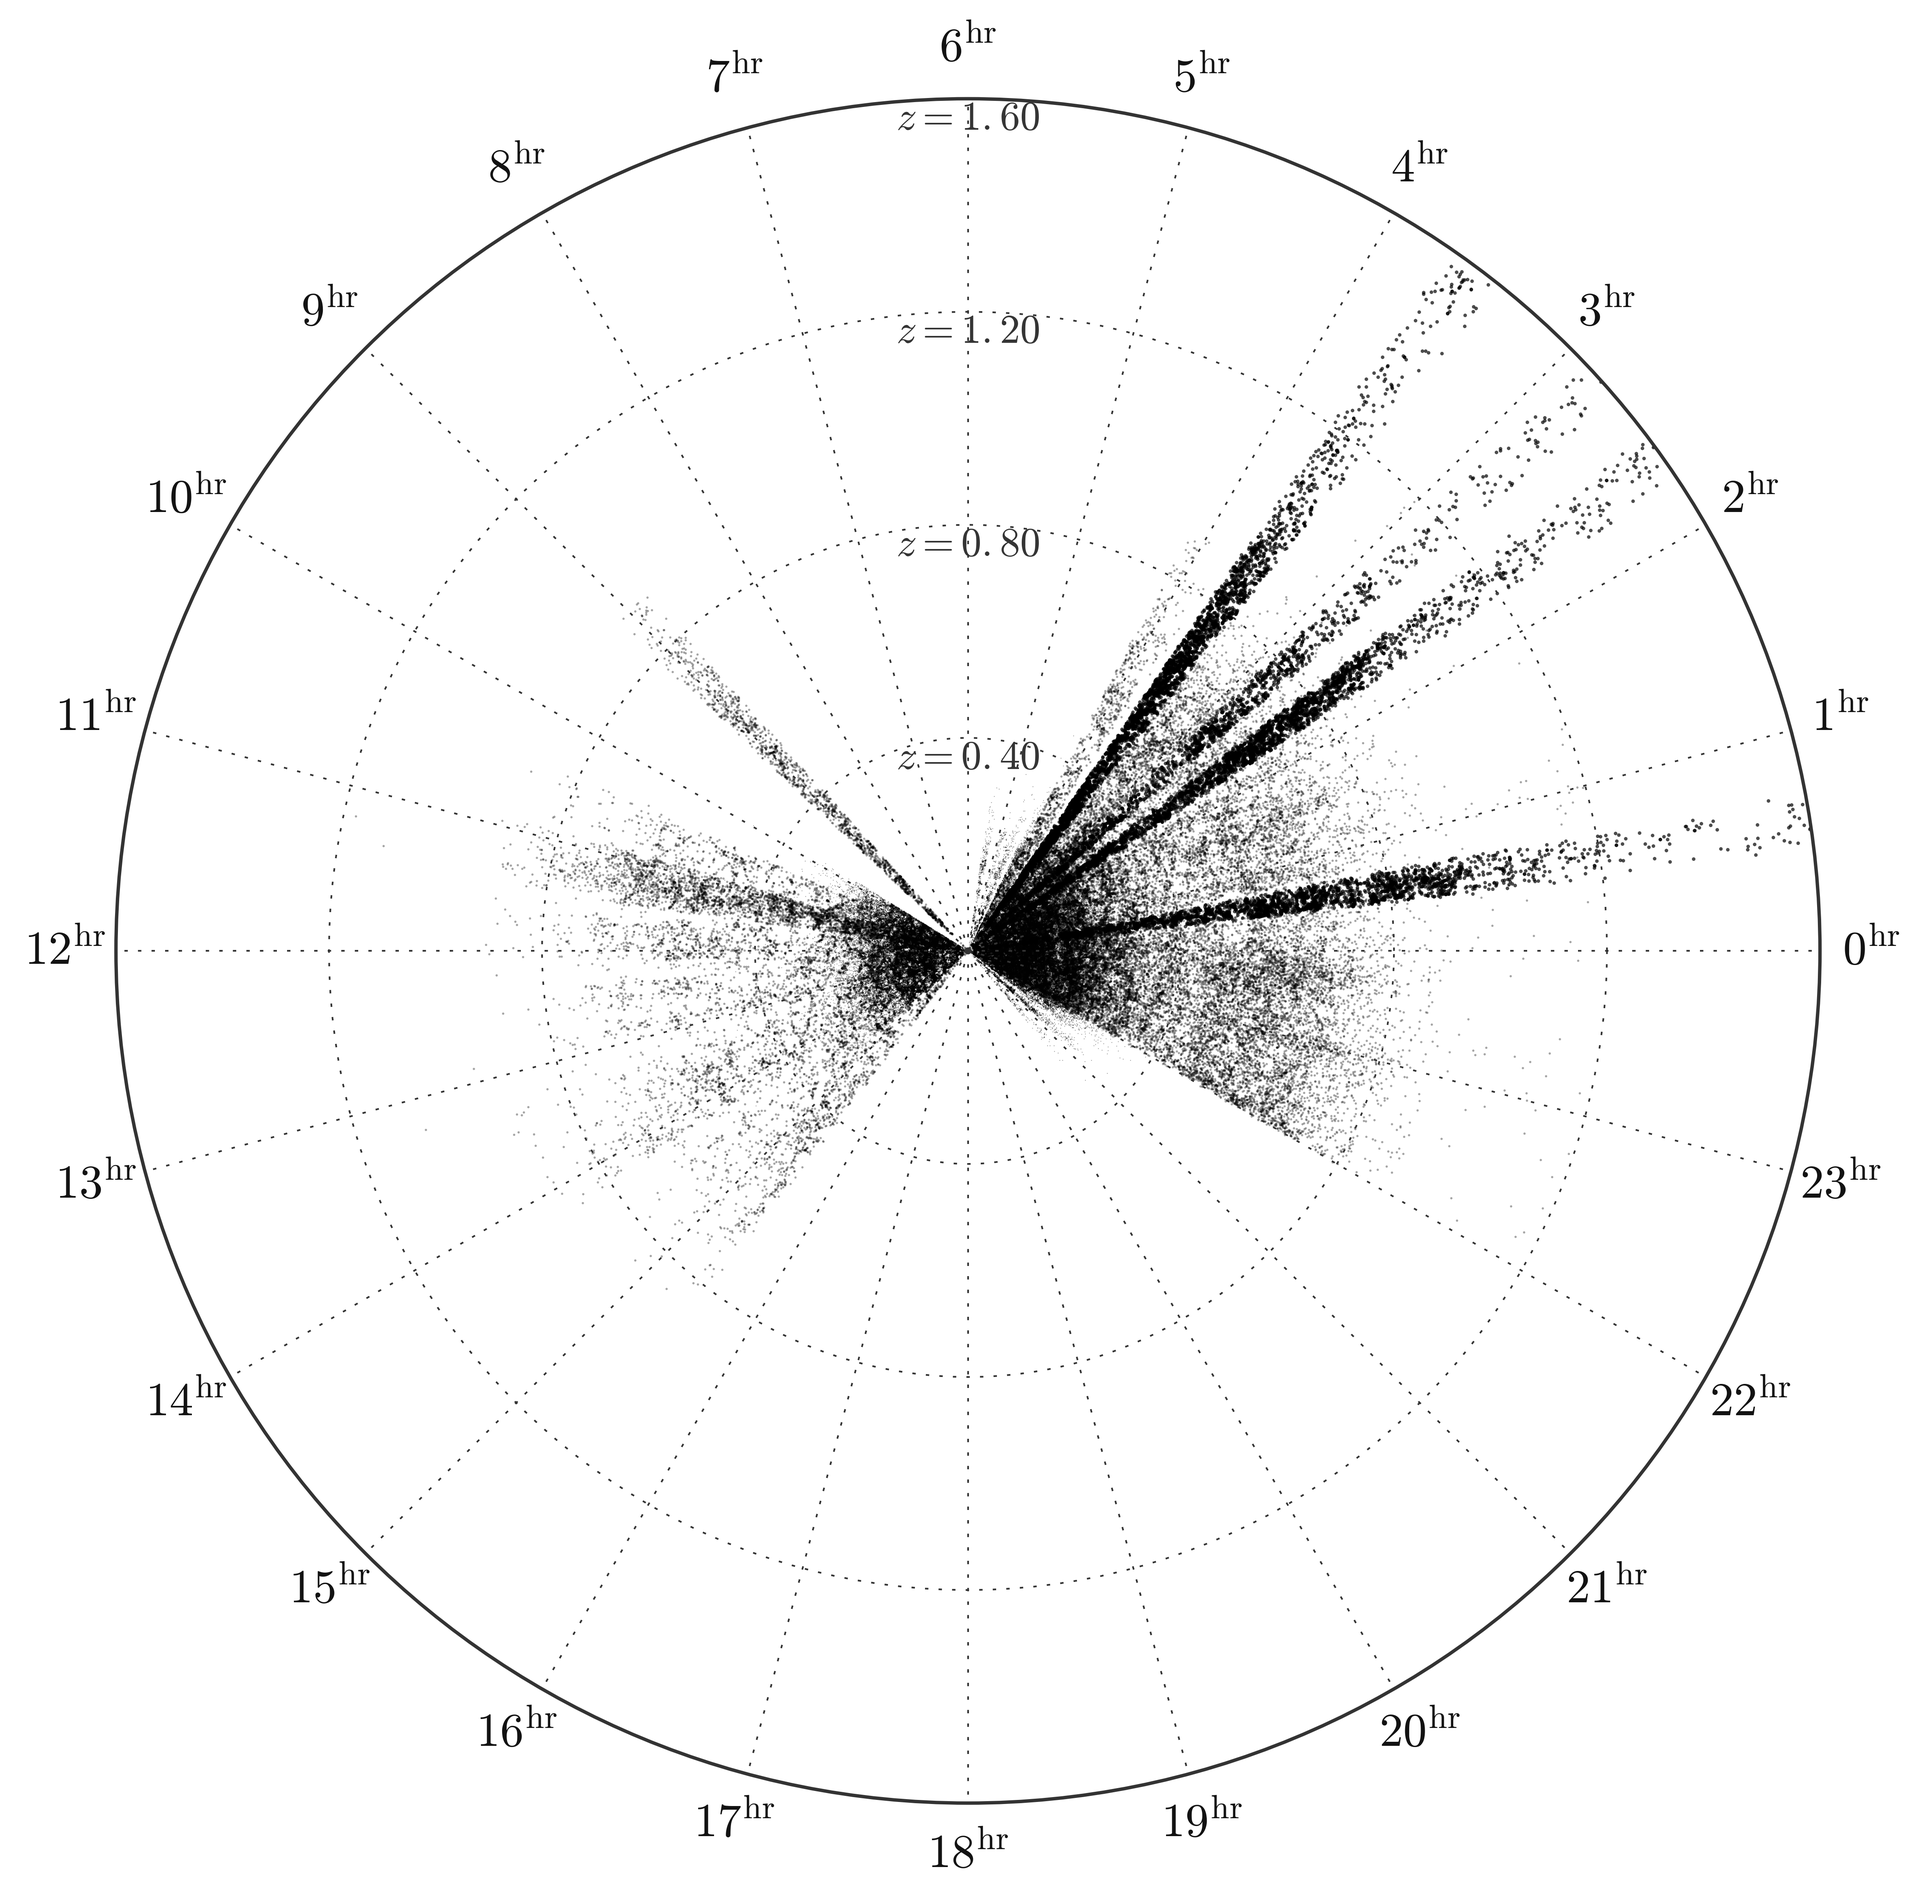
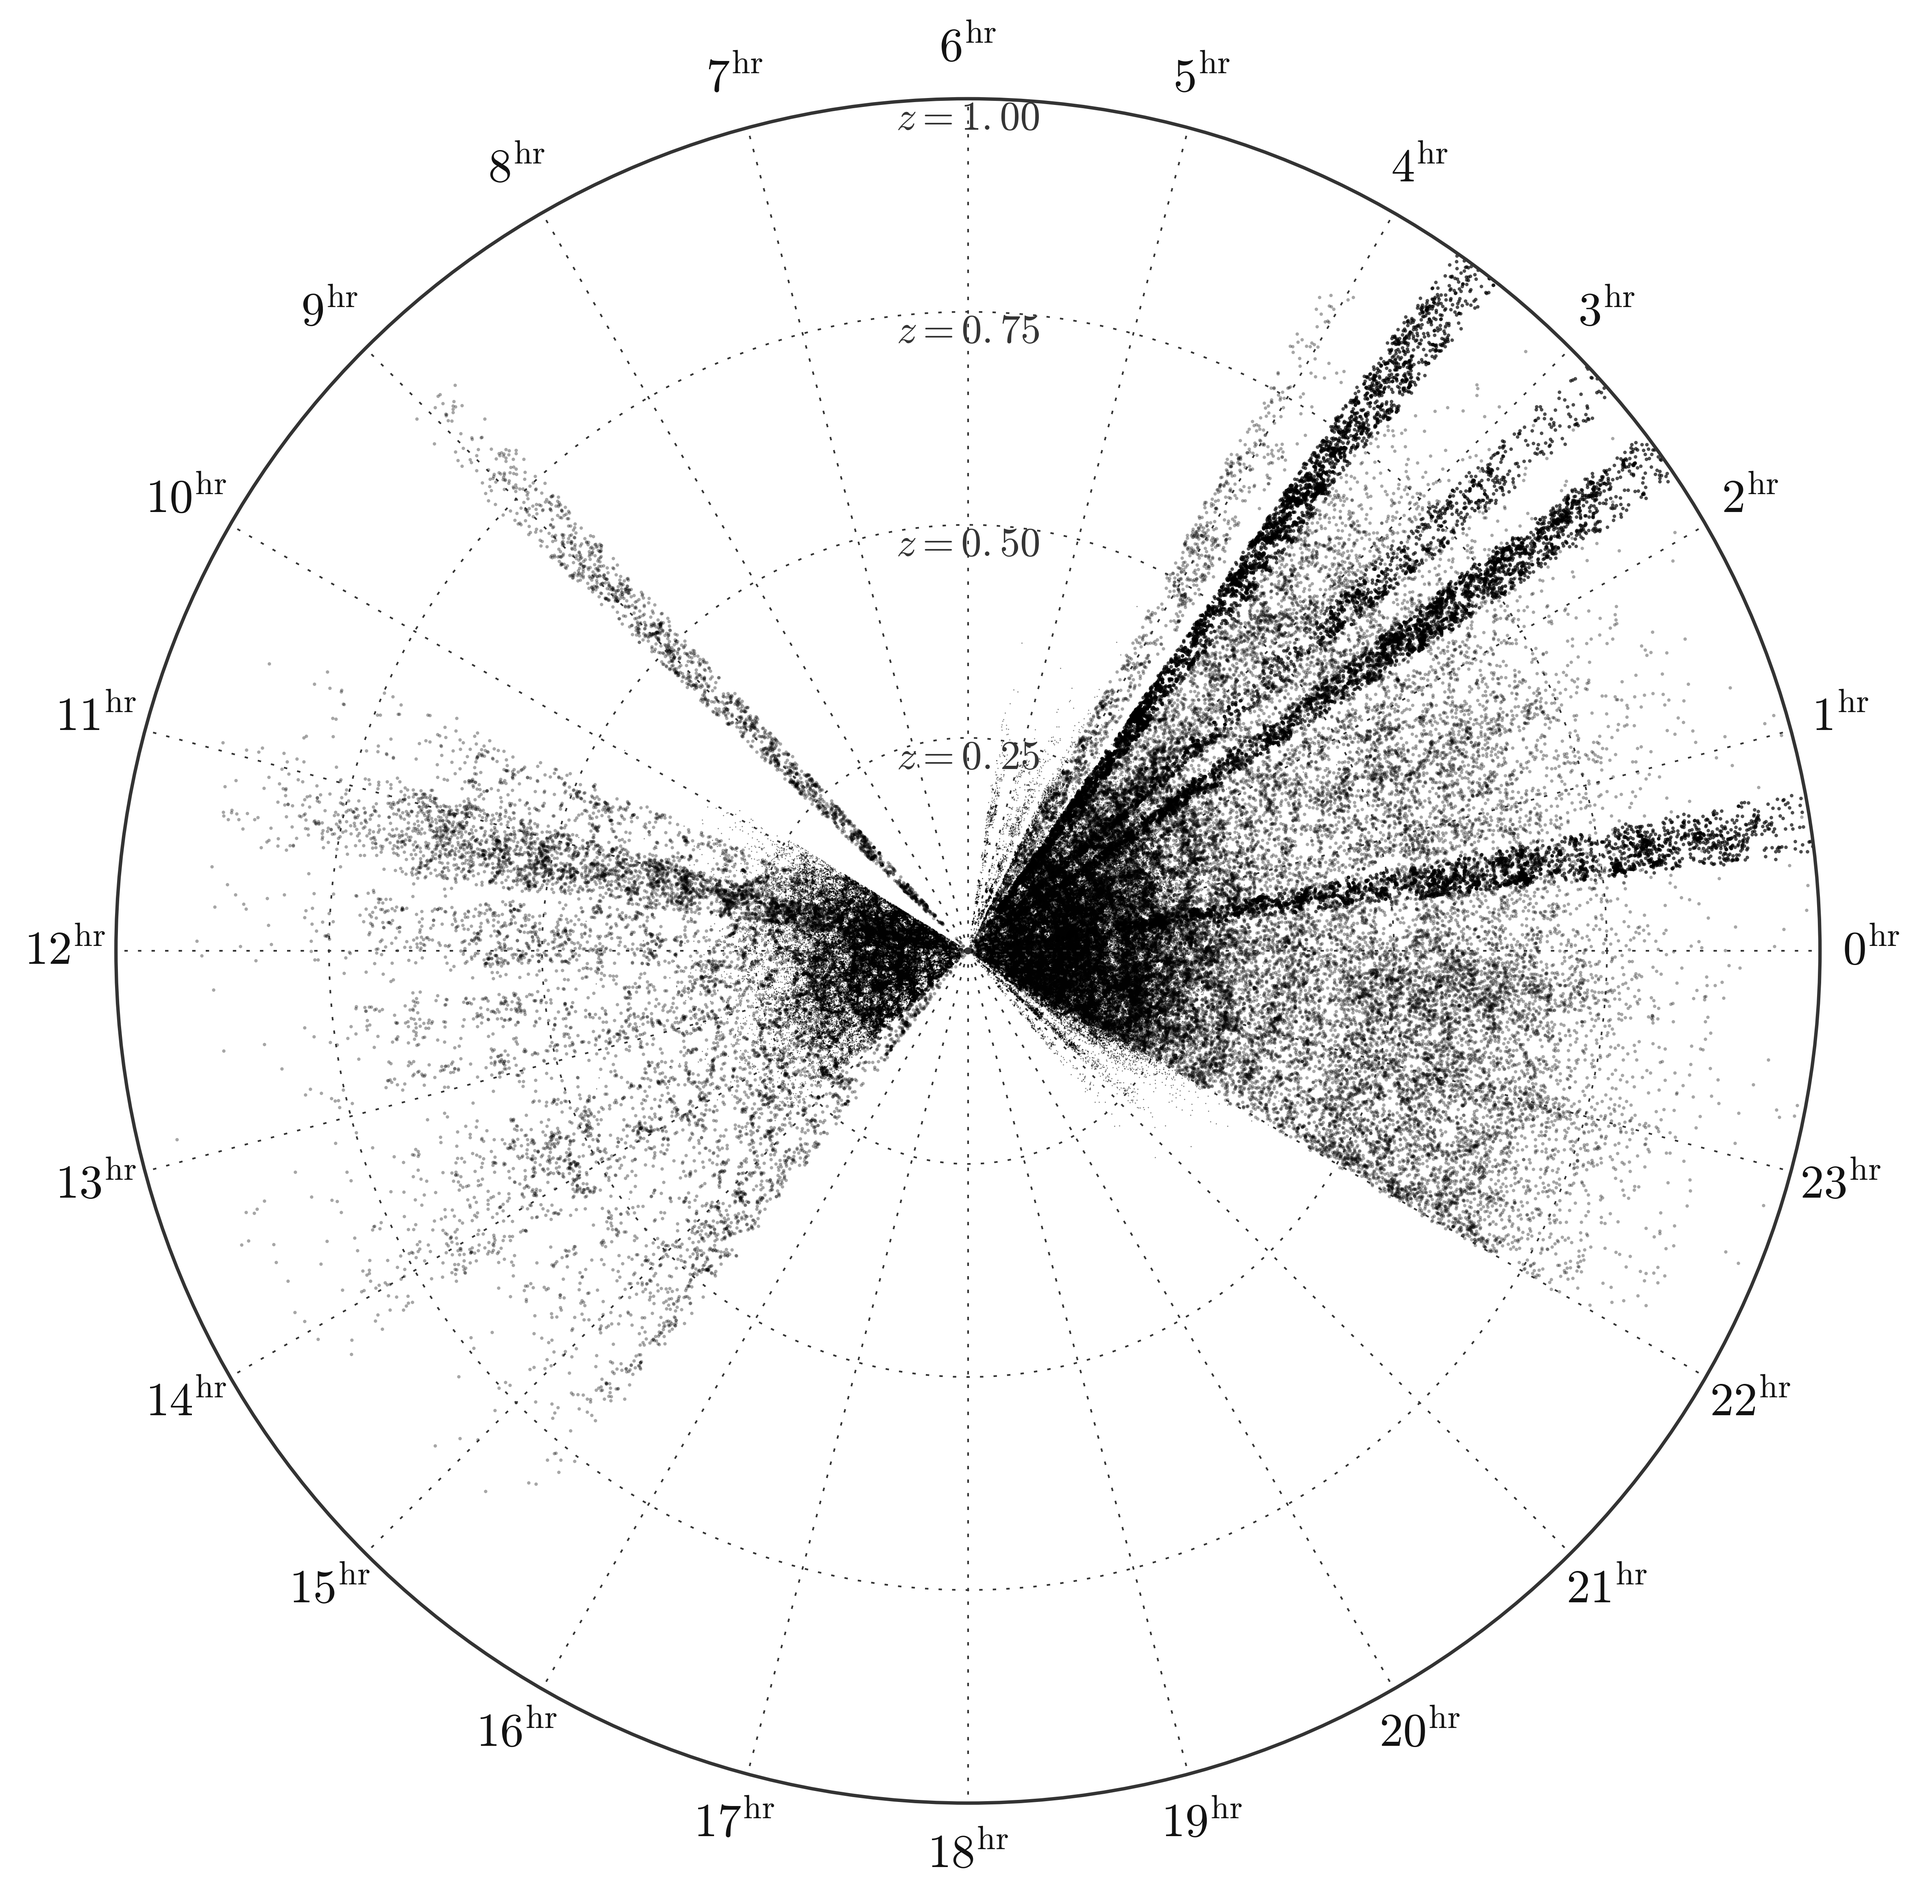
Updating 2df sub example

Changed region(s): [[0.1553, 0.1249, 0.932, 0.718], [0.497, 0.1561, 0.5281, 0.1873], [0.1864, 0.5307, 0.2175, 0.5619]]

diff --git a/examples.py b/examples.py
@@ -56,9 +56,11 @@ def get_permutations():
     g = Gama()
     x = SixDegreefField()
     o = OzDES()
+    o2 = OzDES()
+    o2.zmax = 1.0
     l = Tdflens()
     p = Taipan()
-    groups = [[w, t, s, g, x, o], [w, t, s, g, x], w, t, g, s, x, o, l, [l, o, t], p]
+    groups = [[w, t, s, g, x, o], [w, t, s, g, x], w, t, g, s, x, o, l, [l, o2, t], p]
     names = ["all", "all_nooz", "wigglez", "2df", "gama", "sdss", "6df", "ozdes", "2dflens", "sub", "taipan"]
     return groups, names
 
@@ -76,9 +78,10 @@ def make_all_video(name=None):
 
 
 if __name__ == "__main__":
-    make_figures()
-    make_all_video()
-    # make_figures("taipan")
+    # make_figures()
+    # make_all_video()
+    # make_figures("tdflens")
+    make_figures("sub")
     # make_figures("all")
     # make_all_video("all")
     # make_figures("ozdes")
